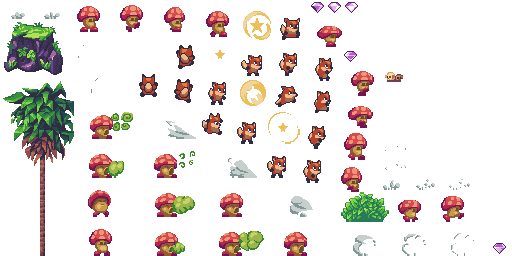
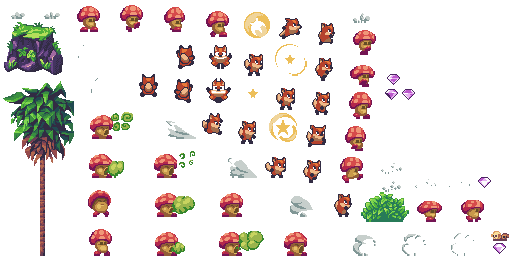
add player hurt animation and behavior

diff --git a/core/src/main/kotlin/io/github/quillraven/foxventure/ai/playerState.kt b/core/src/main/kotlin/io/github/quillraven/foxventure/ai/playerState.kt
@@ -5,6 +5,7 @@ import com.github.quillraven.fleks.World
 import io.github.quillraven.foxventure.component.Animation
 import io.github.quillraven.foxventure.component.AnimationType
 import io.github.quillraven.foxventure.component.Collision
+import io.github.quillraven.foxventure.component.Damaged
 import io.github.quillraven.foxventure.component.Fsm
 import io.github.quillraven.foxventure.component.Velocity
 
@@ -17,8 +18,9 @@ data object PlayerStateIdle : FsmState {
         val collision = entity[Collision]
         val velocity = entity[Velocity].current
 
-        // Check ladder first - highest priority when on ladder
-        if (collision.isOnLadder) {
+        if (entity has Damaged) {
+            entity[Fsm].state.changeState(PlayerStateHurt)
+        } else if (collision.isOnLadder) {
             entity[Fsm].state.changeState(PlayerStateClimb)
         } else if (velocity.x != 0f) {
             entity[Fsm].state.changeState(PlayerStateRun)
@@ -38,7 +40,9 @@ data object PlayerStateRun : FsmState {
     override fun World.onUpdate(entity: Entity) {
         val velocity = entity[Velocity]
 
-        if (velocity.current.x == 0f) {
+        if (entity has Damaged) {
+            entity[Fsm].state.changeState(PlayerStateHurt)
+        } else if (velocity.current.x == 0f) {
             entity[Fsm].state.changeState(PlayerStateIdle)
         } else if (velocity.current.y > 0f) {
             entity[Fsm].state.changeState(PlayerStateJump)
@@ -60,7 +64,9 @@ data object PlayerStateJump : FsmState {
     override fun World.onUpdate(entity: Entity) {
         val collision = entity[Collision]
 
-        if (collision.isOnLadder) {
+        if (entity has Damaged) {
+            entity[Fsm].state.changeState(PlayerStateHurt)
+        } else if (collision.isOnLadder) {
             entity[Fsm].state.changeState(PlayerStateClimb)
         } else if (entity[Velocity].current.y <= 0f) {
             entity[Fsm].state.changeState(PlayerStateFall)
@@ -76,7 +82,9 @@ data object PlayerStateFall : FsmState {
     override fun World.onUpdate(entity: Entity) {
         val collision = entity[Collision]
 
-        if (collision.isOnLadder) {
+        if (entity has Damaged) {
+            entity[Fsm].state.changeState(PlayerStateHurt)
+        } else if (collision.isOnLadder) {
             entity[Fsm].state.changeState(PlayerStateClimb)
         } else if (collision.isGrounded) {
             entity[Fsm].state.changeState(PlayerStateIdle)
@@ -97,7 +105,9 @@ data object PlayerStateClimb : FsmState {
 
     override fun World.onUpdate(entity: Entity) {
         val velocityY = entity[Velocity].current.y
-        if (!entity[Collision].isOnLadder) {
+        if (entity has Damaged) {
+            entity[Fsm].state.changeState(PlayerStateHurt)
+        } else if (!entity[Collision].isOnLadder) {
             when {
                 velocityY < 0f -> entity[Fsm].state.changeState(PlayerStateFall)
                 velocityY > 0f -> entity[Fsm].state.changeState(PlayerStateJump)
@@ -105,6 +115,18 @@ data object PlayerStateClimb : FsmState {
             }
         } else {
             entity[Animation].speed = if (velocityY == 0f) 0f else 1f
+        }
+    }
+}
+
+data object PlayerStateHurt : FsmState {
+    override fun World.onEnter(entity: Entity) {
+        entity[Animation].changeTo(AnimationType.HURT)
+    }
+
+    override fun World.onUpdate(entity: Entity) {
+        if (entity hasNo Damaged) {
+            entity[Fsm].state.changeState(PlayerStateIdle)
         }
     }
 }

diff --git a/core/src/main/kotlin/io/github/quillraven/foxventure/system/AerialMoveSystem.kt b/core/src/main/kotlin/io/github/quillraven/foxventure/system/AerialMoveSystem.kt
@@ -11,6 +11,7 @@ import io.github.quillraven.foxventure.Asset.Companion.get
 import io.github.quillraven.foxventure.AtlasAsset
 import io.github.quillraven.foxventure.component.Collision
 import io.github.quillraven.foxventure.component.Controller
+import io.github.quillraven.foxventure.component.Damaged
 import io.github.quillraven.foxventure.component.EntityTag
 import io.github.quillraven.foxventure.component.GdxAnimation
 import io.github.quillraven.foxventure.component.JumpControl
@@ -57,12 +58,14 @@ class AerialMoveSystem(
 
         val landingDustThresholdSpeed = -7f
         val wasFalling = velocity.y < landingDustThresholdSpeed && !collision.isGrounded
+        val isPlayer = entity has Player
+        val isDamaged = entity has Damaged
 
-        updateJumpState(velocity, physics, jumpControl, jumpPressed, collision.isGrounded, entity has Player)
+        updateJumpState(velocity, physics, jumpControl, jumpPressed, collision.isGrounded, isPlayer, isDamaged)
         applyGravity(velocity, physics, jumpControl?.isJumping == true, collision.isGrounded)
         applyVerticalMovement(physics.position, collision, velocity)
 
-        if (wasFalling && collision.isGrounded && entity.has(Player)) {
+        if (wasFalling && collision.isGrounded && isPlayer) {
             spawnLandingDust(entity)
         }
     }
@@ -74,8 +77,9 @@ class AerialMoveSystem(
         jumpPressed: Boolean,
         isGrounded: Boolean,
         isPlayer: Boolean,
+        isGettingDamaged: Boolean,
     ) {
-        if (jumpControl == null) return
+        if (jumpControl == null || isGettingDamaged) return
 
         if (checkForJumpStart(velocity, physics, jumpControl, jumpPressed, isGrounded, isPlayer)) {
             return

diff --git a/core/src/main/kotlin/io/github/quillraven/foxventure/system/DamagedSystem.kt b/core/src/main/kotlin/io/github/quillraven/foxventure/system/DamagedSystem.kt
@@ -1,0 +1,46 @@
+package io.github.quillraven.foxventure.system
+
+import com.github.quillraven.fleks.Entity
+import com.github.quillraven.fleks.IteratingSystem
+import com.github.quillraven.fleks.World.Companion.family
+import io.github.quillraven.foxventure.component.Damaged
+import io.github.quillraven.foxventure.component.EntityTag
+import io.github.quillraven.foxventure.component.Graphic
+import io.github.quillraven.foxventure.component.Life
+import io.github.quillraven.foxventure.component.Velocity
+
+class DamagedSystem : IteratingSystem(
+    family = family { all(Damaged, Life) }
+) {
+    override fun onTickEntity(entity: Entity) {
+        val damaged = entity[Damaged]
+        if (damaged.timer >= damaged.invulnerableTime) {
+            entity.configure { it -= Damaged }
+            return
+        }
+
+        if (damaged.timer == 0f) {
+            damaged.timer = 0.001f
+            entity[Life].amount -= damaged.damage
+
+            // detach from ladder
+            if (entity has EntityTag.CLIMBING) {
+                entity.configure { it -= EntityTag.CLIMBING }
+            }
+
+            // push entity back slightly
+            val direction = if (damaged.source.wasRemoved()) {
+                if (entity[Graphic].flip) 1f else -1f
+            } else {
+                if (damaged.source[Graphic].flip) -1f else 1f
+            }
+            entity.getOrNull(Velocity)?.let { velocity ->
+                velocity.current.x = 6f * direction
+            }
+
+            return
+        }
+
+        damaged.timer += deltaTime
+    }
+}

diff --git a/core/src/main/kotlin/io/github/quillraven/foxventure/system/GroundMoveSystem.kt b/core/src/main/kotlin/io/github/quillraven/foxventure/system/GroundMoveSystem.kt
@@ -11,6 +11,7 @@ import io.github.quillraven.foxventure.Asset.Companion.get
 import io.github.quillraven.foxventure.AtlasAsset
 import io.github.quillraven.foxventure.component.Collision
 import io.github.quillraven.foxventure.component.Controller
+import io.github.quillraven.foxventure.component.Damaged
 import io.github.quillraven.foxventure.component.EntityTag
 import io.github.quillraven.foxventure.component.Follow
 import io.github.quillraven.foxventure.component.GdxAnimation
@@ -67,7 +68,8 @@ class GroundMoveSystem(
 
     private fun getInputX(entity: Entity): Float {
         val controller = entity.getOrNull(Controller)
-        if (controller != null) {
+        val damaged = entity.getOrNull(Damaged)
+        if (controller != null && damaged == null) {
             var input = 0f
             if (controller.hasCommand(Command.MOVE_LEFT)) input -= 1f
             if (controller.hasCommand(Command.MOVE_RIGHT)) input += 1f

diff --git a/core/src/main/kotlin/io/github/quillraven/foxventure/system/ClimbSystem.kt b/core/src/main/kotlin/io/github/quillraven/foxventure/system/ClimbSystem.kt
@@ -7,6 +7,7 @@ import com.github.quillraven.fleks.World.Companion.family
 import com.github.quillraven.fleks.World.Companion.inject
 import io.github.quillraven.foxventure.component.Collision
 import io.github.quillraven.foxventure.component.Controller
+import io.github.quillraven.foxventure.component.Damaged
 import io.github.quillraven.foxventure.component.EntityTag
 import io.github.quillraven.foxventure.component.JumpControl
 import io.github.quillraven.foxventure.component.Physics
@@ -21,7 +22,7 @@ class ClimbSystem(
     private val tiledService: TiledService = inject(),
     private val physicsTimer: PhysicsTimer = inject(),
 ) : IteratingSystem(
-    family = family { all(Velocity, Collision, Physics, EntityTag.ACTIVE) },
+    family = family { all(Velocity, Collision, Physics, EntityTag.ACTIVE).none(Damaged) },
 ) {
     override fun onTick() {
         repeat(physicsTimer.numSteps) {

diff --git a/core/src/main/kotlin/io/github/quillraven/foxventure/system/CollisionSystem.kt b/core/src/main/kotlin/io/github/quillraven/foxventure/system/CollisionSystem.kt
@@ -11,6 +11,7 @@ import io.github.quillraven.foxventure.Asset.Companion.get
 import io.github.quillraven.foxventure.AtlasAsset
 import io.github.quillraven.foxventure.component.Collision
 import io.github.quillraven.foxventure.component.Damage
+import io.github.quillraven.foxventure.component.Damaged
 import io.github.quillraven.foxventure.component.EntityTag
 import io.github.quillraven.foxventure.component.GdxAnimation
 import io.github.quillraven.foxventure.component.Player
@@ -82,8 +83,8 @@ class CollisionSystem(
             }
 
             "damage" -> {
-                val damage = other[Damage]
-                player[Player].life -= damage.amount
+                val (source, damageAmount) = other[Damage]
+                player.configure { it += Damaged(source, invulnerableTime = 1f, damageAmount) }
                 other.remove()
             }
 

diff --git a/core/src/main/kotlin/io/github/quillraven/foxventure/system/SpawnSystem.kt b/core/src/main/kotlin/io/github/quillraven/foxventure/system/SpawnSystem.kt
@@ -28,6 +28,7 @@ import io.github.quillraven.foxventure.component.Fsm
 import io.github.quillraven.foxventure.component.GdxAnimation
 import io.github.quillraven.foxventure.component.Graphic
 import io.github.quillraven.foxventure.component.JumpControl
+import io.github.quillraven.foxventure.component.Life
 import io.github.quillraven.foxventure.component.Physics
 import io.github.quillraven.foxventure.component.Player
 import io.github.quillraven.foxventure.component.ProximityDetector
@@ -132,6 +133,7 @@ class SpawnSystem(
             "player" -> {
                 entity += listOf(EntityTag.ACTIVE, EntityTag.CAMERA_FOCUS)
                 entity += Player()
+                entity += Life(3)
                 entity += Controller()
                 entity += Fsm(FleksStateMachine(world, entity, PlayerStateIdle))
             }

diff --git a/core/src/main/kotlin/io/github/quillraven/foxventure/system/DamageRequestSystem.kt b/core/src/main/kotlin/io/github/quillraven/foxventure/system/DamageRequestSystem.kt
@@ -18,7 +18,7 @@ class DamageRequestSystem : IteratingSystem(
 ) {
     override fun onTickEntity(entity: Entity) {
         val (source, damage, position, size, lifeSpan) = entity[DamageRequest]
-        if (source !in world) {
+        if (source.wasRemoved()) {
             entity.remove()
             return
         }
@@ -28,7 +28,7 @@ class DamageRequestSystem : IteratingSystem(
             val damageOffsetX = if (flip) -size.x else 0f
             it += Transform(position.add(damageOffsetX, 0f), size)
             it += Collision(box = Rect(0f, 0f, size.x, size.y))
-            it += Damage(amount = damage)
+            it += Damage(source = source, amount = damage)
             it += DelayRemoval(timer = lifeSpan)
             it += Type("damage")
             it += EntityTag.ACTIVE

diff --git a/core/src/main/kotlin/io/github/quillraven/foxventure/screen/GameScreen.kt b/core/src/main/kotlin/io/github/quillraven/foxventure/screen/GameScreen.kt
@@ -19,6 +19,7 @@ import io.github.quillraven.foxventure.system.ClimbSystem
 import io.github.quillraven.foxventure.system.CollisionSystem
 import io.github.quillraven.foxventure.system.ControllerSystem
 import io.github.quillraven.foxventure.system.DamageRequestSystem
+import io.github.quillraven.foxventure.system.DamagedSystem
 import io.github.quillraven.foxventure.system.DelayRemovalSystem
 import io.github.quillraven.foxventure.system.FollowSystem
 import io.github.quillraven.foxventure.system.FsmSystem
@@ -70,6 +71,7 @@ class GameScreen(
             add(AerialMoveSystem())
             add(GroundMoveSystem())
             add(CollisionSystem())
+            add(DamagedSystem())
             add(FsmSystem())
             add(DamageRequestSystem())
             add(CameraSystem())

diff --git a/core/src/main/kotlin/io/github/quillraven/foxventure/component/Damaged.kt b/core/src/main/kotlin/io/github/quillraven/foxventure/component/Damaged.kt
@@ -1,0 +1,16 @@
+package io.github.quillraven.foxventure.component
+
+import com.github.quillraven.fleks.Component
+import com.github.quillraven.fleks.ComponentType
+import com.github.quillraven.fleks.Entity
+
+data class Damaged(
+    val source: Entity,
+    val invulnerableTime: Float, // how long do you remain invulnerable until the next damage can be applied?
+    val damage: Int,
+    var timer: Float = 0f,
+) : Component<Damaged> {
+    override fun type() = Damaged
+
+    companion object : ComponentType<Damaged>()
+}

diff --git a/core/src/main/kotlin/io/github/quillraven/foxventure/component/Life.kt b/core/src/main/kotlin/io/github/quillraven/foxventure/component/Life.kt
@@ -3,8 +3,10 @@ package io.github.quillraven.foxventure.component
 import com.github.quillraven.fleks.Component
 import com.github.quillraven.fleks.ComponentType
 
-data class Player(var gems: Int = 0) : Component<Player> {
-    override fun type() = Player
+data class Life(
+    var amount: Int,
+) : Component<Life> {
+    override fun type() = Life
 
-    companion object : ComponentType<Player>()
+    companion object : ComponentType<Life>()
 }

diff --git a/core/src/main/kotlin/io/github/quillraven/foxventure/system/FollowSystem.kt b/core/src/main/kotlin/io/github/quillraven/foxventure/system/FollowSystem.kt
@@ -33,7 +33,7 @@ class FollowSystem(
         if (follow.target == Entity.NONE) {
             follow.moveDirection = 0f
             return
-        } else if (follow.target !in world) {
+        } else if (follow.target.wasRemoved()) {
             follow.moveDirection = 0f
             follow.target = Entity.NONE
             return
